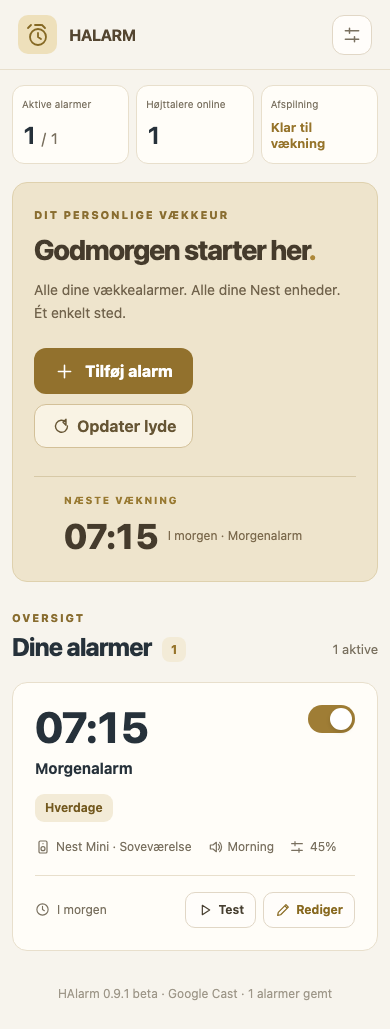
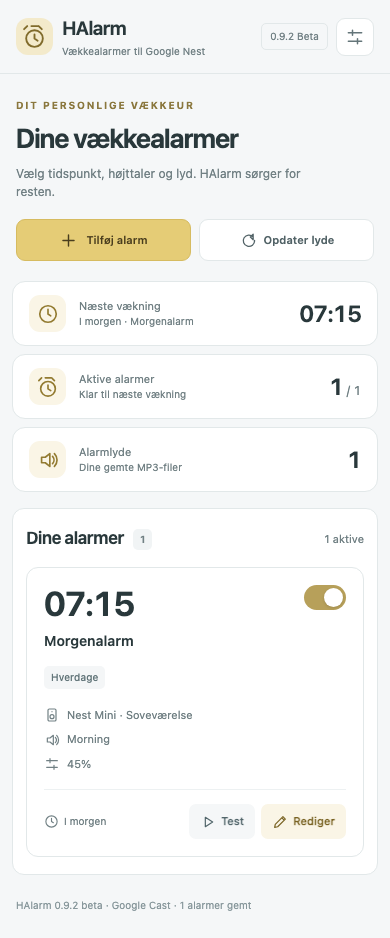
Restyle HAlarm with a light ESPScripts-inspired interface

diff --git a/custom_components/halarm/frontend/halarm.js b/custom_components/halarm/frontend/halarm.js
@@ -1,4 +1,4 @@
-/* HAlarm 0.9.1 beta — standalone Home Assistant sidebar panel, no npm dependencies. */
+/* HAlarm 0.9.2 beta — standalone Home Assistant sidebar panel, no npm dependencies. */
 const DAY_LABELS = ["Man", "Tir", "Ons", "Tor", "Fre", "Lør", "Søn"];
 const DAY_FULL = ["mandag", "tirsdag", "onsdag", "torsdag", "fredag", "lørdag", "søndag"];
 const ESC = (x) => String(x ?? "").replace(/[&<>"']/g, c => ({"&":"&amp;","<":"&lt;",">":"&gt;","\"":"&quot;","'":"&#39;"})[c]);
@@ -170,33 +170,29 @@ class AlarmPanel extends HTMLElement {
     const empty = alarms.length === 0;
     this.shadowRoot.innerHTML = `<style>${STYLE}</style>
     <div class="page">
-      <header class="topbar"><div class="brand"><div class="brand-icon">${ico("alarm", 24)}</div><span>HALARM</span></div>
-      <button class="icon-button" data-action="settings" aria-label="Indstillinger" title="Indstillinger">${ico("tune")}</button></header>
+      <header class="topbar"><div class="brand"><div class="brand-icon">${ico("alarm", 25)}</div><div><strong>HAlarm</strong><small>Vækkealarmer til Google Nest</small></div></div>
+      <div class="header-right"><span class="local-status ${active ? "is-ringing" : ""}">${active ? "Alarmen ringer" : "Kører lokalt"}</span><span class="version">0.9.2 Beta</span><button class="icon-button" data-action="settings" aria-label="Indstillinger" title="Indstillinger">${ico("tune")}</button></div></header>
       <main class="main">
-        <section class="overview" aria-label="Alarmoversigt">
-          <div><span>Aktive alarmer</span><strong>${on}<small> / ${alarms.length}</small></strong></div>
-          <div><span>Højttalere online</span><strong>${s?.devices?.filter(d=>d.available).length || 0}</strong></div>
-          <div><span>Afspilning</span><strong class="status-value">${active ? `${active} ringer nu` : "Klar til vækning"}</strong></div>
-        </section>
         <section class="hero">
           <div class="hero-copy"><p class="eyebrow">DIT PERSONLIGE VÆKKEUR</p>
-          <h1>Godmorgen starter her<span class="period">.</span></h1>
-          <p class="hero-description">Alle dine vækkealarmer. Alle dine Nest enheder. Ét enkelt sted.</p>
-          <div class="hero-actions"><button class="primary" data-action="add">${ico("add", 21)} Tilføj alarm</button>
-          <button class="subtle" data-action="refresh">${ico("refresh", 18)} Opdater lyde</button></div></div>
-          <div class="hero-widget"><div class="widget-orbit"></div><div class="widget-glyph">${ico("alarm", 53)}</div>
-          <p class="widget-label">NÆSTE VÆKNING</p><div class="widget-time">${next ? ESC(next.time) : "--:--"}</div>
-          <div class="widget-caption">${next ? ESC(this._next(next).text) + " · " + ESC(next.name) : "Ingen aktive alarmer"}</div></div>
+          <h1>Dine vækkealarmer</h1>
+          <p class="hero-description">Vælg tidspunkt, højttaler og lyd. HAlarm sørger for resten.</p></div>
+          <div class="hero-actions"><button class="primary" data-action="add">${ico("add", 19)} Tilføj alarm</button><button class="secondary" data-action="refresh">${ico("refresh", 17)} Opdater lyde</button></div>
+        </section>
+        <section class="overview" aria-label="Alarmoversigt">
+          <div><span class="stat-icon">${ico("clock",22)}</span><div><span>Næste vækning</span><strong>${next ? ESC(next.time) : "—"}</strong><small>${next ? ESC(this._next(next).text) + " · " + ESC(next.name) : "Ingen aktive alarmer"}</small></div></div>
+          <div><span class="stat-icon">${ico("alarm",22)}</span><div><span>Aktive alarmer</span><strong>${on}<small> / ${alarms.length}</small></strong><small>${active ? `${active} ringer nu` : "Klar til næste vækning"}</small></div></div>
+          <div><span class="stat-icon">${ico("sound",22)}</span><div><span>Alarmlyde</span><strong>${s?.sounds?.length || 0}</strong><small>Dine gemte MP3-filer</small></div></div>
         </section>
         ${active ? `<section class="live-strip"><span class="live-dot"></span><div><b>${active} alarm${active > 1 ? "er" : ""} ringer</b><small>Sig “Hey Google, stop” eller brug Stop</small></div><button class="stop-all" data-action="stop-all">${ico("stop", 18)} Stop alle</button></section>` : ""}
         ${!s?.base_url ? `<section class="notice">${ico("info", 19)} <span>Home Assistants mediebibliotek bruges til alarmlyde. Angiv gerne en lokal IP adresse under Indstillinger som reservevej til Nest Hub.</span><button data-action="settings">Indstil</button></section>` : ""}
         ${s && !s.sounds.length ? `<section class="notice">${ico("info", 19)} <span>Ingen lydfiler endnu. Læg <code>*.mp3</code> i <code>halarm/sounds/</code>.</span><button data-action="refresh">Søg igen</button></section>` : ""}
-        <section class="list-section"><div class="section-heading"><div><p class="eyebrow dark">OVERSIGT</p><h2>Dine alarmer <span class="count">${alarms.length}</span></h2></div><span class="section-caption">${on} aktive</span></div>
+        <section class="list-section"><div class="section-heading"><div><h2>Dine alarmer <span class="count">${alarms.length}</span></h2></div><span class="section-caption">${on} aktive</span></div>
         ${this._error ? `<div class="notice error">${ico("info")} ${ESC(this._error)}</div>` : ""}
         ${s?.last_error ? `<div class="notice error">${ico("info")} <span>Seneste afspilningsfejl: ${ESC(s.last_error)}</span></div>` : ""}
         ${!s ? `<div class="empty">Indlæser alarmcentralen…</div>` : empty ? `<div class="empty-state"><div class="empty-icon">${ico("moon", 35)}</div><h3>Ingen alarmer endnu</h3><p>Begynd med din første alarm. Vælg klokken, ugedage, lyd og højttaler.</p><button class="primary" data-action="add">${ico("add")} Opret din første alarm</button></div>` : `<div class="alarm-grid">${alarms.sort((a,b) => Number(b.enabled)-Number(a.enabled) || a.time.localeCompare(b.time)).map(a=>this._alarmCard(a)).join("")}</div>`}
         </section>
-        <footer class="footer">HAlarm 0.9.1 beta · Google Cast · ${alarms.length} alarmer gemt</footer>
+        <footer class="footer">HAlarm 0.9.2 beta · Google Cast · ${alarms.length} alarmer gemt</footer>
       </main>
     </div>
     <div class="modal-layer" id="modal-layer"></div><div class="toast ${this._toastText ? `show ${this._toastIsError ? "bad" : ""}` : ""}" role="status" aria-live="polite">${ESC(this._toastText)}</div>`;
@@ -328,63 +324,18 @@ class AlarmPanel extends HTMLElement {
 }
 
 const STYLE = `
-:host{display:block;min-height:100%;font-family:Inter,system-ui,-apple-system,BlinkMacSystemFont,"Segoe UI",sans-serif;color:var(--primary-text-color,#26313a);--ink:var(--primary-text-color,#403a2e);--muted:var(--secondary-text-color,#766e60);--line:rgba(142,121,80,.20);--bg:var(--primary-background-color,#f7f4ed);--panel:var(--card-background-color,#fffdf8);--blue:#98782e;--blue-dark:#795e22;--soft:#f3eddb;}
-*{box-sizing:border-box} button,input,select{font:inherit} button{cursor:pointer} button:disabled{opacity:.5;cursor:wait} svg{flex:none}.page{background:var(--bg);min-height:100vh}.topbar{height:77px;padding:0 clamp(20px,5vw,76px);background:var(--panel);border-bottom:1px solid var(--line);display:flex;align-items:center;justify-content:space-between}.brand{display:flex;align-items:center;gap:12px;font-size:12px;font-weight:850;letter-spacing:.18em}.brand-icon{width:39px;height:39px;border-radius:12px;background:#eaeefe;color:var(--blue);display:grid;place-items:center}.icon-button{width:40px;height:40px;display:grid;place-items:center;border:1px solid var(--line);border-radius:12px;background:var(--panel);color:var(--muted);transition:.2s}.icon-button:hover{color:var(--blue);border-color:var(--blue)}.main{max-width:1240px;margin:auto;padding:32px clamp(18px,4vw,42px) 50px}.hero{background:linear-gradient(118deg,#1f2b59 0%,#3245a0 58%,#586ae2 100%);color:white;border-radius:27px;min-height:288px;display:flex;position:relative;overflow:hidden;justify-content:space-between;gap:24px;align-items:center;padding:46px clamp(30px,5vw,66px);box-shadow:0 22px 55px #23377921}.hero::after{content:"";width:420px;height:420px;position:absolute;right:-180px;top:-220px;border:1px solid #ffffff2b;border-radius:50%}.eyebrow{font-size:11px;letter-spacing:.16em;font-weight:800;margin:0 0 13px;color:#bacaff}.eyebrow.dark{color:var(--blue);margin-bottom:8px}.hero-copy{position:relative;z-index:1}.hero h1{font-size:clamp(29px,3.6vw,45px);letter-spacing:-.045em;line-height:1.12;margin:0;font-weight:760;max-width:520px}.period{color:#97b5ff}.hero-description{color:#dae2ff;margin:18px 0 25px;line-height:1.6;max-width:420px;font-size:14px}.hero-actions{display:flex;gap:10px;flex-wrap:wrap}.primary{display:inline-flex;gap:10px;align-items:center;justify-content:center;border:0;color:#fff;background:var(--blue);font-weight:750;border-radius:12px;padding:12px 20px;transition:.15s;white-space:nowrap;min-height:46px}.primary:hover{background:var(--blue-dark);transform:translateY(-1px)}.hero .primary{background:white;color:#3044a2}.hero .primary:hover{background:#e9efff}.subtle{background:#ffffff1a;color:#fff;border:1px solid #ffffff45;display:inline-flex;align-items:center;gap:8px;border-radius:12px;padding:12px 16px;font-weight:650}.subtle:hover{background:#ffffff33}.hero-widget{z-index:1;position:relative;text-align:center;min-width:215px;max-width:240px;padding:17px 4px}.widget-orbit{width:198px;height:198px;position:absolute;border:1px solid #ffffff30;border-radius:50%;inset:-12px 10px auto;pointer-events:none}.widget-glyph{color:#c1ceff;margin-bottom:7px}.widget-label{font-size:10px;letter-spacing:.17em;color:#c1ceff;font-weight:800;margin:4px 0 4px}.widget-time{font-size:48px;font-weight:800;letter-spacing:-.06em;line-height:1.1}.widget-caption{font-size:12px;color:#e1e7ff;margin-top:11px;line-height:1.5}.list-section{padding-top:41px}.section-heading{display:flex;align-items:end;justify-content:space-between;margin-bottom:21px}.section-heading h2{font-size:25px;letter-spacing:-.035em;margin:0;font-weight:760}.section-caption{color:var(--muted);font-size:13px;padding-bottom:4px}.count{font-size:12px;background:var(--soft);color:var(--blue);padding:5px 9px;border-radius:10px;vertical-align:middle;letter-spacing:0;margin-left:6px}.alarm-grid{display:grid;grid-template-columns:repeat(2,minmax(0,1fr));gap:17px}.alarm-card{background:var(--panel);border:1px solid var(--line);border-radius:22px;padding:25px;min-width:0;box-shadow:0 5px 16px #31435b08;transition:transform .15s,border .15s}.alarm-card:hover{transform:translateY(-2px);border-color:#bfc6ef}.alarm-card.disabled{opacity:.62}.alarm-card.ringing{border-color:#f4a15c;box-shadow:0 0 0 3px #ffba722e}.alarm-card-main{display:flex;justify-content:space-between;gap:15px;align-items:start}.alarm-time{font-size:48px;letter-spacing:-.065em;font-weight:760;line-height:1}.alarm-name{font-size:15px;font-weight:700;margin-top:11px}.alarm-days{font-size:12px;font-weight:650;color:var(--blue);margin-top:17px;background:var(--soft);border-radius:9px;padding:6px 10px;display:inline-block;min-height:28px}.alarm-meta{display:flex;flex-wrap:wrap;gap:8px 15px;margin-top:24px;color:var(--muted);font-size:12px;border-bottom:1px solid var(--line);padding-bottom:20px}.alarm-meta span{display:inline-flex;align-items:center;gap:5px;overflow-wrap:anywhere}.alarm-card-footer{display:flex;align-items:center;justify-content:space-between;margin-top:16px;gap:8px}.next-chip{display:flex;align-items:center;gap:7px;color:var(--muted);font-size:12px}.next-chip.live{color:#e8802c;font-weight:800}.card-actions{display:flex;gap:7px}.mini{display:flex;gap:5px;align-items:center;justify-content:center;border:1px solid var(--line);background:transparent;color:var(--ink);padding:9px 11px;border-radius:10px;font-size:12px;font-weight:700}.mini:hover{background:var(--soft);border-color:#c9ceef}.mini.edit{color:var(--blue)}.mini.danger{background:#fff0eb;color:#b6482a;border-color:#ffc8b3}.switch{position:relative;display:inline-flex;align-items:center;flex:none;cursor:pointer}.switch input{position:absolute;opacity:0;width:1px;height:1px}.switch span{display:inline-block;width:47px;height:28px;border-radius:28px;background:#c6cdd6;position:relative;transition:.2s}.switch span:after{content:"";background:#fff;width:22px;height:22px;border-radius:100%;position:absolute;top:3px;left:3px;box-shadow:0 2px 4px #0002;transition:.2s}.switch input:checked+span{background:var(--blue)}.switch input:checked+span:after{transform:translateX(19px)}.switch input:focus-visible+span{outline:3px solid #9caeff}.live-strip{background:#fff5ed;border:1px solid #f9d5b9;color:#a25427;border-radius:15px;display:flex;align-items:center;gap:14px;padding:14px 18px;margin-top:19px}.live-dot{width:13px;height:13px;background:#ed7a2e;border-radius:50%;box-shadow:0 0 0 6px #ffd6b7;animation:pulse 1.2s infinite}.live-strip div{flex:1;display:grid;gap:2px}.live-strip small{font-size:12px}.stop-all{border:0;border-radius:9px;background:#ad4a26;color:white;padding:10px 13px;display:flex;align-items:center;gap:8px;font-weight:700}.notice{margin-top:18px;display:flex;align-items:center;gap:12px;border:1px solid #dde2f7;border-radius:14px;padding:13px 16px;background:var(--panel);font-size:13px;color:var(--muted)}.notice span{flex:1}.notice button{color:var(--blue);border:0;background:transparent;font-weight:700}.notice.error{color:#b32742;border-color:#f8baca}.empty-state{display:flex;flex-direction:column;align-items:center;text-align:center;padding:57px 20px;background:var(--panel);border:1px dashed #bbc7dc;border-radius:19px}.empty-icon{display:grid;place-items:center;border-radius:20px;width:72px;height:72px;color:var(--blue);background:var(--soft)}.empty-state h3{font-size:22px;margin:20px 0 2px}.empty-state p{color:var(--muted);max-width:330px;font-size:14px;line-height:1.6;margin-bottom:22px}.empty{background:var(--panel);border-radius:16px;padding:38px;text-align:center;color:var(--muted)}.footer{text-align:center;color:var(--muted);font-size:12px;margin-top:35px;opacity:.7}.overlay{position:fixed;z-index:1000;inset:0;background:#1721399e;display:flex;align-items:center;justify-content:center;padding:24px;backdrop-filter:blur(5px)}.dialog{background:var(--panel);border-radius:22px;width:min(100%,635px);max-height:min(93vh,950px);display:flex;flex-direction:column;color:var(--ink);box-shadow:0 30px 100px #0003;overflow:hidden}.dialog-top{display:flex;align-items:center;justify-content:space-between;padding:25px 29px;border-bottom:1px solid var(--line)}.dialog-top h2{font-size:24px;letter-spacing:-.035em;margin:0}.dialog-scroll{padding:26px 30px 23px;overflow-y:auto;overscroll-behavior:contain}.field-label{display:block;font-size:13px;font-weight:760;margin-bottom:10px;color:var(--ink)}.field{background:var(--panel);border:1px solid #cbd3de;color:var(--ink);border-radius:11px;padding:12px 13px;width:100%;min-height:46px;outline:0}.field:focus,.time-input:focus{border-color:var(--blue);box-shadow:0 0 0 3px #526ee823}.time-input{font-size:43px;letter-spacing:-.035em;font-weight:750;max-width:255px;width:100%;border:1px solid #cbd3de;border-radius:13px;background:var(--panel);color:var(--ink);padding:9px 14px;outline:0;min-height:73px;color-scheme:light}.form-gap{margin-top:22px}.quick-days{display:flex;flex-wrap:wrap;gap:8px;margin-bottom:12px}.quick-days button{font-size:12px;font-weight:720;color:var(--blue);background:var(--soft);border:1px solid #dfe3fb;padding:8px 12px;border-radius:9px}.quick-days button:hover{background:#dce4ff}.day-picker{display:flex;gap:8px;flex-wrap:wrap}.day-chip{width:49px;height:46px;border:1px solid #d5dbe3;border-radius:11px;background:var(--panel);color:var(--muted);font-size:12px;font-weight:760}.day-chip.selected{background:var(--blue);border-color:var(--blue);color:#fff;box-shadow:0 3px 10px #526ee828}.dialog-grid{display:grid;grid-template-columns:1fr 1fr;gap:16px}.select-wrap{position:relative}.select-wrap svg{position:absolute;left:12px;top:15px;color:var(--blue);pointer-events:none}.select-wrap select{padding-left:37px;max-width:100%;text-overflow:ellipsis;appearance:auto}.volume-panel{padding:19px 19px 16px;background:var(--soft);border-radius:16px}.volume-head{display:flex;align-items:center;justify-content:space-between;gap:8px}.volume-head .field-label{margin:0}.volume-head strong{color:var(--blue);font-size:18px}.volume-panel input[type=range]{width:100%;margin:22px 0 16px;appearance:none;height:7px;border-radius:10px;background:linear-gradient(to right,var(--blue) var(--fill),#d0d7e8 var(--fill));cursor:pointer}.volume-panel input[type=range]::-webkit-slider-thumb{appearance:none;border-radius:50%;width:20px;height:20px;background:#fff;border:5px solid var(--blue);box-shadow:0 2px 7px #0002}.volume-foot{display:flex;align-items:center;justify-content:space-between;font-size:11px;color:var(--muted)}.preview-link{border:0;background:transparent;color:var(--blue);display:flex;align-items:center;gap:5px;font-weight:750;font-size:12px}.enabled-inline{display:flex;align-items:center;justify-content:space-between;padding:17px 0 2px}.enabled-inline div{display:flex;flex-direction:column;gap:4px}.enabled-inline b{font-size:13px}.enabled-inline small{font-size:12px;color:var(--muted)}.dialog-actions{display:flex;align-items:center;justify-content:space-between;gap:10px;border-top:1px solid var(--line);padding:17px 29px;background:var(--panel)}.action-right{display:flex;align-items:center;gap:9px}.secondary{border:1px solid var(--line);background:var(--panel);border-radius:11px;padding:12px 16px;color:var(--ink);font-weight:700}.delete-button{border:0;color:#d14b53;background:transparent;display:flex;align-items:center;gap:6px;font-size:13px;font-weight:760}.toast{position:fixed;z-index:2000;left:50%;bottom:30px;max-width:min(90vw,580px);background:#263f43;color:#fff;padding:13px 19px;border-radius:12px;box-shadow:0 15px 40px #0004;transform:translate(-50%,100px);opacity:0;pointer-events:none;transition:.24s;text-align:center;font-size:13px}.toast.show{transform:translate(-50%,0);opacity:1}.toast.bad{background:#bb4050}.help{line-height:1.6;color:var(--muted);font-size:12px;margin:8px 0 19px}.settings-box{background:var(--soft);border-radius:15px;padding:18px;font-size:13px}.settings-box code{display:block;overflow-wrap:anywhere;margin-top:13px;padding:10px;background:var(--panel);border-radius:8px;color:var(--blue)}.settings-box p{line-height:1.6;color:var(--muted)}
-@keyframes pulse{50%{box-shadow:0 0 0 10px #ffd6b700}}
-@media(max-width:840px){.hero{padding:34px 29px}.hero-widget{min-width:160px}.widget-time{font-size:40px}.alarm-grid{grid-template-columns:1fr}}@media(max-width:590px){.topbar{height:64px;padding:0 20px}.main{padding:19px 14px 30px}.hero{display:block;padding:29px 24px}.hero h1{font-size:31px}.hero-widget{margin:28px auto 0;padding:0;max-width:100%;display:flex;align-items:center;gap:11px;flex-wrap:wrap;text-align:left}.widget-orbit,.widget-glyph{display:none}.widget-label{width:100%;margin:0}.widget-time{font-size:35px}.widget-caption{margin:0}.list-section{padding-top:29px}.alarm-card{padding:20px}.alarm-time{font-size:43px}.alarm-meta{margin-top:17px}.alarm-card-footer{flex-wrap:wrap}.overlay{padding:0;align-items:end}.dialog{max-height:95dvh;border-radius:22px 22px 0 0;width:100%}.dialog-top{padding:20px}.dialog-scroll{padding:20px}.dialog-grid{grid-template-columns:1fr}.dialog-actions{padding:15px 20px}.day-picker{gap:5px}.day-chip{width:calc((100% - 6*5px)/7);min-width:0}.live-strip{flex-wrap:wrap}.stop-all{margin-left:auto}}
-@media(prefers-reduced-motion:reduce){*{animation:none!important;transition:none!important}}
-
-
-/* HAlarm warm muted-yellow design: follows ESPHealth's clear, calm dashboard language. */
-:host{--ink:#473f30;--muted:#79705f;--line:#e8dfcc;--bg:#f7f4ed;--panel:#fffdf8;--blue:#96742b;--blue-dark:#795b1c;--soft:#f3ebd7;}
-.page{background:var(--bg)}
-.topbar{height:70px;max-width:1540px;margin:auto;background:transparent;border-bottom:1px solid var(--line);padding:0 32px}
-.brand{font-size:16px;letter-spacing:-.03em;font-weight:700;color:#544631}
-.brand-icon{background:#eee0bb;color:#856823;border-radius:10px}
-.main{max-width:1340px;padding:24px 32px 45px}
-.hero{background:#eee4cc;border:1px solid #dfd1ae;box-shadow:none;min-height:246px;border-radius:17px;color:#453b2c;padding:32px 43px}
-.hero::after{border-color:#cdbb8a66}
-.hero h1{font-size:clamp(28px,3vw,40px)}
-.hero .eyebrow,.eyebrow.dark{color:#896d30}
-.hero-description{color:#71634c;margin:14px 0 24px}
-.period{color:#ad8839}
-.hero .primary{background:#92712d;color:#fff}
-.hero .primary:hover{background:#775a24}
-.hero .subtle{background:#f9f3e4;color:#665534;border-color:#d3c098}
-.hero .subtle:hover{background:#fff9e9}
-.widget-label,.widget-glyph{color:#987931}
-.widget-caption{color:#7b694c}
-.widget-orbit{border-color:#cfbd9566}
-.alarm-card{border-radius:15px;box-shadow:none;padding:22px}
-.alarm-card:hover{border-color:#c9b57e;transform:translateY(-1px)}
-.alarm-card.ringing{border-color:#caa45a;box-shadow:0 0 0 3px #e9ce8a55}
-.alarm-days{color:#73591f}
-.count{border-radius:8px}
-.mini,.icon-button,.secondary{background:#fffdfa;border-color:#e1d7c6}
-.mini.edit{color:#88691f}
-.mini:hover,.icon-button:hover{background:#f6edda;border-color:#c9b57e}
-.switch input:checked+span{background:#9f7d35}
-.switch input:focus-visible+span{outline:3px solid #e0c37d}
-.volume-panel{background:#f6f0e1;border:1px solid #eadbbd}
-.day-chip.selected{background:#92712d;border-color:#92712d;box-shadow:none}
-.quick-days button{border-color:#e1d4b8;color:#7b6127;background:#f6eeda}
-.quick-days button:hover{background:#ecdfbd}
-.dialog{border-radius:18px}
-.field,.time-input{border-color:#d8cdba}
-.field:focus,.time-input:focus{border-color:#a18a50;box-shadow:0 0 0 3px #dccb9d55}
-.volume-panel input[type=range]{background:linear-gradient(to right,#9e7f3c var(--fill),#ddd2b8 var(--fill))}
-.volume-panel input[type=range]::-webkit-slider-thumb{border-color:#9e7f3c}
-.notice{background:#fffdf8;border-color:#e9dfcc}
-.empty-state{border-color:#d9cda9}
-.toast{background:#4b4536}
-.settings-box{margin-top:14px;background:#f5efdf}
-.diag-log{white-space:pre-wrap;max-height:190px;overflow:auto;overflow-wrap:anywhere;font:11px/1.5 ui-monospace,monospace;color:#62563d;background:#fffbf2;border:1px solid #e7ddc4;padding:10px;border-radius:8px}
-button:focus-visible,input:focus-visible,select:focus-visible{outline:3px solid #b99a50;outline-offset:3px}
-.overview{display:grid;grid-template-columns:repeat(3,minmax(0,1fr));gap:14px;margin-bottom:18px}
-.overview>div{background:var(--panel);border:1px solid var(--line);border-radius:12px;padding:17px 20px;display:grid;gap:9px}
-.overview span{font-size:12px;color:var(--muted)}.overview strong{font-size:27px;font-variant-numeric:tabular-nums;font-weight:650}.overview small{font-size:15px;color:var(--muted);font-weight:400}.overview .status-value{font-size:18px;align-self:center;color:var(--blue)}
-.widget-orbit,.hero::after{display:none}.hero-widget{border-left:1px solid #d7c9a7;padding-left:30px}.alarm-time,.widget-time{font-variant-numeric:tabular-nums}
-@media(prefers-color-scheme:dark){:host{--ink:#ede6d7;--muted:#bdb39f;--line:#484231;--bg:#211f19;--panel:#2b2820;--soft:#393222;--blue:#d5b765;--blue-dark:#b69a4d;color:var(--ink)}.hero{background:#383121;color:#f1e6cb;border-color:#605237}.hero-description,.widget-caption{color:#d3c5a5}.hero .eyebrow,.widget-label,.widget-glyph,.brand,.alarm-days,.mini.edit{color:#d5b765}.mini,.icon-button,.secondary,.notice{background:var(--panel);color:var(--ink);border-color:var(--line)}.settings-box,.volume-panel{background:var(--soft)}.diag-log{background:var(--panel);color:var(--ink);border-color:var(--line)}.primary,.hero .primary,.day-chip.selected{color:#241f14;background:#d5b765}.mini:hover,.icon-button:hover,.secondary:hover{background:var(--soft);color:#e8cb83;border-color:#b59a54}.eyebrow.dark{color:#d5b765}.hero .primary:hover{background:#e8cb83}.time-input{color-scheme:dark}}
-@media(max-width:590px){.overview{gap:7px}.overview>div{padding:12px 9px}.overview span{font-size:10px}.overview strong{font-size:24px}.overview .status-value{font-size:13px}.hero-widget{border-left:0;border-top:1px solid #d7c9a7;padding-top:17px}.topbar{padding:0 18px}.main{padding:15px 12px 28px}.hero{padding:25px 21px;border-radius:15px}}
+:host{display:block;min-height:100%;font:14px/1.5 system-ui,-apple-system,BlinkMacSystemFont,"Segoe UI",sans-serif;color:#29383b;color-scheme:light;--ink:#29383b;--muted:#718084;--line:#e2e8e9;--bg:#f5f7f8;--panel:#fff;--blue:#766020;--blue-dark:#624e17;--soft:#faf5e4;--accent:#e5cc76}
+*{box-sizing:border-box}button,input,select{font:inherit}button{cursor:pointer}button:disabled{opacity:.5;cursor:wait}svg{flex:none}button,input,select{touch-action:manipulation}button:focus-visible,input:focus-visible,select:focus-visible{outline:3px solid #c3a64c;outline-offset:3px}
+.page{background:var(--bg);min-height:100vh}.topbar{height:84px;max-width:1376px;margin:auto;padding:0 42px;display:flex;align-items:center;justify-content:space-between;gap:16px;border-bottom:1px solid var(--line)}.brand{display:flex;align-items:center;gap:12px}.brand-icon{width:43px;height:43px;border-radius:12px;background:#f3eacb;color:#806b2b;display:grid;place-items:center}.brand strong{display:block;font-size:21px;font-weight:650;letter-spacing:-.6px}.brand small{display:block;font-size:11px;color:var(--muted);margin-top:2px}.header-right{display:flex;align-items:center;gap:16px}.version{font-size:11px;border:1px solid var(--line);padding:5px 8px;border-radius:5px;color:var(--muted);white-space:nowrap}.local-status{font-size:11px;color:var(--muted);white-space:nowrap}.local-status:before{content:"";display:inline-block;width:7px;height:7px;border-radius:50%;background:#6e9d87;margin-right:7px}.local-status.is-ringing:before{background:#bf8133}.icon-button{width:38px;height:38px;display:grid;place-items:center;background:white;border:1px solid var(--line);color:#647579;border-radius:9px}
+.main{max-width:1376px;margin:auto;padding:0 42px 28px}.hero{display:flex;align-items:center;justify-content:space-between;gap:25px;padding:32px 0 27px}.eyebrow{font-size:10px;font-weight:700;letter-spacing:1.7px;color:#8a773d;margin:0 0 10px}h1{font-size:clamp(25px,3vw,34px);letter-spacing:-1px;font-weight:650;line-height:1.15;margin:0}.hero-description{font-size:13px;color:var(--muted);margin:11px 0 0}.hero-actions{display:flex;gap:8px;flex-wrap:wrap}.primary,.secondary,.subtle{display:inline-flex;align-items:center;justify-content:center;gap:8px;min-height:42px;padding:10px 15px;border-radius:9px;font-size:12px;font-weight:600;white-space:nowrap}.primary{background:var(--accent);border:1px solid #d6bb60;color:#493d1d}.primary:hover{background:#ddc064}.secondary,.subtle{background:white;border:1px solid var(--line);color:#526367}.secondary:hover,.subtle:hover,.icon-button:hover{background:#f9fafb;border-color:#c7d2d4}
+.overview{display:grid;grid-template-columns:repeat(3,minmax(0,1fr));gap:16px;margin-bottom:24px}.overview>div{display:flex;align-items:center;gap:14px;min-width:0;padding:20px;background:white;border:1px solid var(--line);border-radius:13px}.stat-icon{display:grid;place-items:center;width:44px;height:44px;flex:none;border-radius:11px;background:#faf5e6;color:#927a30}.overview>div>div{min-width:0}.overview span:not(.stat-icon){display:block;font-size:11px;color:var(--muted)}.overview strong{display:block;font-size:25px;font-weight:650;letter-spacing:-.7px;line-height:1.3;font-variant-numeric:tabular-nums}.overview small{display:block;font-size:11px;font-weight:400;color:var(--muted);overflow-wrap:anywhere}.overview strong small{display:inline;font-size:14px;letter-spacing:0}
+.list-section{background:white;border:1px solid var(--line);border-radius:16px;padding:24px}.section-heading{display:flex;align-items:center;justify-content:space-between;gap:12px;margin-bottom:20px}.section-heading h2{font-size:17px;font-weight:650;letter-spacing:-.4px;margin:0}.section-caption{font-size:11px;color:var(--muted)}.count{font-size:10px;vertical-align:middle;display:inline-block;margin-left:6px;background:#f1f4f5;color:#718084;padding:3px 7px;border-radius:5px;letter-spacing:0}.alarm-grid{display:grid;grid-template-columns:repeat(auto-fill,minmax(290px,1fr));gap:16px}.alarm-card{background:white;border:1px solid var(--line);border-radius:12px;min-width:0;padding:20px;transition:border-color .15s}.alarm-card:hover{border-color:#c9d3d5}.alarm-card.disabled{background:#fafbfc}.alarm-card.disabled .alarm-time,.alarm-card.disabled .alarm-name{color:#829094}.alarm-card.ringing{border-color:#c6a84f;background:#fffdf6}.alarm-card-main{display:flex;align-items:flex-start;justify-content:space-between;gap:12px}.alarm-time{font-size:37px;font-weight:650;letter-spacing:-1.4px;line-height:1.1;font-variant-numeric:tabular-nums}.alarm-name{font-size:14px;font-weight:600;margin-top:8px;overflow-wrap:anywhere}.alarm-days{display:inline-block;font-size:10px;font-weight:500;background:#f4f6f7;color:#63767a;border-radius:5px;padding:4px 7px;margin-top:15px}.alarm-meta{display:grid;gap:8px;margin:18px 0 0;padding-bottom:17px;border-bottom:1px solid #edf1f2;font-size:11px;color:var(--muted)}.alarm-meta span{display:flex;align-items:center;gap:7px;overflow-wrap:anywhere}.alarm-card-footer{display:flex;justify-content:space-between;align-items:center;gap:8px;margin-top:14px;flex-wrap:wrap}.next-chip{display:flex;align-items:center;gap:5px;color:var(--muted);font-size:10px}.next-chip.live{color:#98752a;font-weight:650}.card-actions{display:flex;gap:6px}.mini{display:inline-flex;align-items:center;justify-content:center;gap:5px;background:#f5f7f8;border:1px solid transparent;color:#52666b;border-radius:7px;font-size:11px;font-weight:550;padding:8px 10px;min-height:34px}.mini:hover{background:#edf1f2}.mini.edit{background:#faf5e6;color:#796323}.mini.edit:hover{background:#f3e9c9}.mini.danger{background:#fceee9;color:#a14e36;border-color:#f1d9cc}
+.switch{position:relative;display:inline-flex;cursor:pointer;flex:none}.switch input{position:absolute;opacity:0;width:1px;height:1px}.switch span{display:block;width:42px;height:25px;border-radius:24px;background:#d8dfe1;position:relative}.switch span:after{content:"";position:absolute;left:3px;top:3px;width:19px;height:19px;background:white;border-radius:50%;box-shadow:0 1px 3px #0002;transition:transform .15s}.switch input:checked+span{background:#b7a05a}.switch input:checked+span:after{transform:translateX(17px)}.switch input:focus-visible+span{outline:3px solid #c3a64c;outline-offset:3px}
+.live-strip{display:flex;align-items:center;gap:14px;background:#fff8e8;border:1px solid #ead7a4;border-radius:11px;padding:14px 18px;margin:0 0 18px;color:#806323}.live-dot{height:9px;width:9px;background:#bc9137;border-radius:50%;flex:none}.live-strip>div{flex:1;display:grid;gap:2px}.live-strip small{font-size:11px}.stop-all{display:flex;gap:7px;align-items:center;background:#8a622b;color:white;border:0;border-radius:8px;padding:10px 13px;font-size:12px;font-weight:600}.notice{display:flex;align-items:center;gap:10px;border:1px solid var(--line);border-radius:10px;padding:12px 14px;margin-bottom:16px;background:white;color:var(--muted);font-size:12px}.notice span{flex:1;overflow-wrap:anywhere}.notice button{border:0;background:#faf5e6;border-radius:6px;color:#796323;padding:7px 10px;white-space:nowrap}.notice.error{color:#a44640;border-color:#efd0cd;background:#fff9f8}
+.empty-state{display:flex;flex-direction:column;align-items:center;text-align:center;border:1px dashed var(--line);border-radius:12px;padding:38px 20px;background:#fafcfc}.empty-icon{width:60px;height:60px;border-radius:15px;background:var(--soft);color:#927a30;display:grid;place-items:center}.empty-state h3{font-size:20px;font-weight:600;margin:16px 0 0}.empty-state p{font-size:12px;color:var(--muted);max-width:330px;margin:10px 0 19px}.empty{padding:35px;text-align:center;color:var(--muted)}.footer{font-size:10px;color:#87979b;margin-top:22px;text-align:left}
+.overlay{position:fixed;z-index:1000;inset:0;background:#20323766;display:flex;align-items:center;justify-content:center;padding:24px;backdrop-filter:blur(3px)}.dialog{background:white;border:1px solid var(--line);border-radius:16px;width:min(100%,635px);max-height:min(93dvh,950px);display:flex;flex-direction:column;color:var(--ink);box-shadow:0 25px 80px #20323726;overflow:hidden}.dialog-top{display:flex;align-items:center;justify-content:space-between;gap:12px;padding:23px 26px;border-bottom:1px solid var(--line)}.dialog-top h2{font-size:22px;font-weight:600;letter-spacing:-.7px;margin:0}.dialog-top .eyebrow{margin-bottom:5px}.dialog-scroll{padding:24px 26px;overflow-y:auto;overscroll-behavior:contain}.field-label{display:block;font-size:12px;font-weight:600;margin-bottom:8px;color:#52666b}.field,.time-input{display:block;width:100%;background:white;border:1px solid #d9e2e4;border-radius:8px;color:var(--ink);padding:11px 12px;min-height:44px;outline:none}.field:focus,.time-input:focus{border-color:#b49b4e}.time-input{font-size:35px;font-weight:600;letter-spacing:-1px;max-width:230px;min-height:63px;color-scheme:light}.form-gap{margin-top:20px}.quick-days{display:flex;gap:6px;flex-wrap:wrap;margin-bottom:12px}.quick-days button{font-size:11px;background:#f5f7f8;color:#63767a;border:1px solid var(--line);border-radius:7px;padding:8px 11px}.quick-days button:hover{background:#edf1f2}.day-picker{display:flex;gap:7px;flex-wrap:wrap}.day-chip{width:49px;min-height:42px;border:1px solid var(--line);border-radius:8px;background:white;color:var(--muted);font-size:11px}.day-chip.selected{background:#f4e9c4;border-color:#d5bd72;color:#69561e}.dialog-grid{display:grid;grid-template-columns:1fr 1fr;gap:16px}.select-wrap{position:relative}.select-wrap svg{position:absolute;left:11px;top:13px;color:#88989c;pointer-events:none}.select-wrap select{padding-left:36px;max-width:100%;text-overflow:ellipsis}.volume-panel{border:1px solid var(--line);background:#f9fafb;border-radius:10px;padding:16px}.volume-head{display:flex;align-items:center;justify-content:space-between;gap:8px}.volume-head .field-label{margin:0}.volume-head strong{color:#796323;font-size:16px}.volume-panel input[type=range]{width:100%;margin:20px 0 15px;appearance:none;height:6px;border-radius:8px;background:linear-gradient(to right,#b7a05a var(--fill),#e0e6e8 var(--fill));cursor:pointer}.volume-panel input[type=range]::-webkit-slider-thumb{appearance:none;border-radius:50%;width:19px;height:19px;background:white;border:4px solid #b7a05a}.volume-foot{display:flex;align-items:center;justify-content:space-between;font-size:10px;color:var(--muted)}.preview-link{border:0;background:transparent;color:#796323;display:flex;align-items:center;gap:5px;font-size:11px;font-weight:550}.enabled-inline{display:flex;align-items:center;justify-content:space-between;padding:16px 0 0;gap:12px}.enabled-inline div{display:grid;gap:3px}.enabled-inline b{font-size:12px;font-weight:600}.enabled-inline small{font-size:11px;color:var(--muted)}.dialog-actions{display:flex;align-items:center;justify-content:space-between;gap:10px;border-top:1px solid var(--line);padding:16px 26px;background:white}.action-right{display:flex;align-items:center;gap:8px}.delete-button{display:flex;align-items:center;gap:6px;border:0;background:transparent;color:#ad5851;font-size:12px;padding:8px 0}.help{font-size:12px;color:var(--muted);line-height:1.65;margin:9px 0 20px}.settings-box{margin-top:16px;background:#f8fafb;border:1px solid var(--line);border-radius:10px;padding:16px;font-size:12px}.settings-box code{display:block;padding:10px;background:white;border:1px solid var(--line);border-radius:6px;margin-top:10px;color:#63767a;overflow-wrap:anywhere}.settings-box p{color:var(--muted);line-height:1.65}.diag-log{white-space:pre-wrap;max-height:190px;overflow:auto;overflow-wrap:anywhere;font:11px/1.6 ui-monospace,monospace;color:#52666b;background:white;border:1px solid var(--line);padding:10px;border-radius:7px}.toast{position:fixed;z-index:2000;left:50%;bottom:25px;max-width:min(90vw,580px);background:#34474c;color:white;padding:12px 18px;border-radius:9px;box-shadow:0 8px 30px #20323726;transform:translate(-50%,100px);opacity:0;pointer-events:none;transition:.2s;text-align:center;font-size:12px}.toast.show{transform:translate(-50%,0);opacity:1}.toast.bad{background:#a64d48}
+@media(max-width:850px){.topbar{padding:0 24px}.main{padding:0 24px 24px}.hero{align-items:flex-start;flex-direction:column;gap:18px}.overview{gap:10px}.overview>div{padding:15px 12px;gap:9px}.stat-icon{width:35px;height:35px}.overview small{font-size:10px}}
+@media(max-width:590px){.topbar{height:74px;padding:0 16px}.brand{gap:9px}.brand strong{font-size:19px}.brand small{font-size:10px}.brand-icon{width:37px;height:37px}.header-right{gap:8px}.local-status{display:none}.version{font-size:10px}.main{padding:0 12px 24px}.hero{padding:24px 4px 20px}.hero h1{font-size:27px}.hero-description{font-size:12px;max-width:290px}.hero-actions{width:100%}.hero-actions button{flex:1;padding:10px;font-size:11px}.overview{grid-template-columns:1fr;gap:8px;margin-bottom:16px}.overview>div{padding:13px 16px;gap:13px}.overview>div>div{display:grid;grid-template-columns:1fr auto;column-gap:14px;align-items:center;flex:1}.overview strong{grid-column:2;grid-row:1/3;font-size:23px}.overview>div>div>small{grid-column:1;grid-row:2}.overview strong small{font-size:12px}.stat-icon{width:37px;height:37px}.list-section{padding:17px 13px;border-radius:12px}.section-heading{margin-bottom:15px}.alarm-grid{grid-template-columns:1fr;gap:12px}.alarm-card{padding:17px}.alarm-time{font-size:34px}.overlay{padding:0;align-items:flex-end}.dialog{max-height:95dvh;width:100%;border-radius:16px 16px 0 0}.dialog-top,.dialog-scroll{padding:20px}.dialog-actions{padding:14px 20px}.dialog-grid{grid-template-columns:1fr}.day-picker{gap:5px}.day-chip{width:calc((100% - 30px)/7);min-width:0}.live-strip{flex-wrap:wrap}.stop-all{margin-left:auto}.footer{padding:0 4px;line-height:1.7}}
+@media(prefers-reduced-motion:reduce){*{transition:none!important;animation:none!important}}
 `;
 if (!customElements.get("halarm-app")) customElements.define("halarm-app", AlarmPanel);

diff --git a/custom_components/halarm/__init__.py b/custom_components/halarm/__init__.py
@@ -669,8 +669,8 @@ async def async_setup(hass: HomeAssistant, config: ConfigType) -> bool:
         await panel_custom.async_register_panel(
             hass, webcomponent_name="halarm-app", frontend_url_path=DOMAIN,
             sidebar_title="HAlarm", sidebar_icon="mdi:alarm-multiple",
-            module_url="/halarm-ui/halarm.js?v=0.9.1",
+            module_url="/halarm-ui/halarm.js?v=0.9.2",
             require_admin=True,
         )
-    _LOGGER.info("HAlarm 0.9.1 beta klar")
+    _LOGGER.info("HAlarm 0.9.2 beta klar")
     return True

diff --git a/README.md b/README.md
@@ -2,7 +2,7 @@
 
 **HAlarm** er en lokal, selvstændig Home Assistant alarmcentral til Google Cast højttalere (Nest Hub, Nest Audio og Nest Mini) med et roligt, varmt gult interface, inspireret af det enkle ESPHealth-dashboard.
 
-> **Status: 0.9.1 beta.** Google Cast eksponerer ikke en dedikeret begivenhed for »Hey Google, stop«. HAlarm udleder et stop fra ændringer i `media_player` tilstanden. Stoplogikken er regressionstestet mod Home Assistant 2026.11.1; fysisk stemmestop på Nest-enheder skal fortsat afprøves i din installation.
+> **Status: 0.9.2 beta.** Google Cast eksponerer ikke en dedikeret begivenhed for »Hey Google, stop«. HAlarm udleder et stop fra ændringer i `media_player` tilstanden. Stoplogikken er regressionstestet mod Home Assistant 2026.11.1; fysisk stemmestop på Nest-enheder skal fortsat afprøves i din installation.
 
 ## Funktioner
 
@@ -12,7 +12,7 @@
 - Automatisk MP3 registrering i `halarm/sounds/`
 - Lydprøve, stopknap, »stop alle«, test og separat status på aktive alarmer
 - Gentagelse ved naturlig `idle`-afslutning; `off` og `paused` stopper altid, også tæt på lydens slutning
-- Kompakt statusoversigt, mobilvisning, mørk visning og dæmpet gul accent
+- Kompakt statusoversigt, mobilvisning, fast lys visning og dæmpet gul accent
 - Vedvarende lydmappe uden for integrationsmappen, så HACS-opdateringer bevarer MP3-filer
 - Log over de seneste tilstandsskift for at hjælpe med fejlsøgning på Nest Mini
 - Forsøger automatisk at importere alarmer fra Alarmcentral 2.x (`.storage/alarmpanel.v2`)

diff --git a/docs/validation.md b/docs/validation.md
@@ -1,4 +1,4 @@
-# Validering af HAlarm 0.9.1 beta
+# Validering af HAlarm 0.9.2 beta
 
 ## Miljø
 
@@ -13,7 +13,7 @@
 - Gem/genindlæs af eksisterende alarmindstillinger; læsende migration fra Alarmcentral.
 - Persistente MP3-filer og spejling til Cast/mediebibliotek.
 - Samme planlagte minut starter kun én gang ved samtidige scheduler-kald.
-- Desktop 1280 px, mobil 390 px, mørk visning, redigering/gem, Escape og genåbning uden dobbelte lyttere.
+- Desktop 1280 px, mobil 390 px, lys visning også med mørkt systemtema, redigering/gem, Escape og genåbning uden dobbelte lyttere.
 - Rigtig HA-opstart med afhængigheder, registrering af WebSocket og sidepanel.
 - HACS-validering i GitHub Actions; brands-check undtages, da dette er et brugerdefineret repository.
 - Ingen JavaScript-fejl eller vandret overløb ved testet mobilbredde.

diff --git a/CHANGELOG.md b/CHANGELOG.md
@@ -1,5 +1,12 @@
 # Ændringslog
 
+## 0.9.2 beta
+
+- Nyt lyst interface tættere på ESPScripts og ESPHealth: hvidlige flader, diskrete kanter og kompakte alarmkort.
+- Direkte adgang til Tilføj alarm og Opdater lyde samt oversigt over næste vækning, aktive alarmer og lydfiler.
+- Gul bruges som afdæmpet accent; systemets mørke udseende ændrer ikke længere HAlarm til mørk visning.
+- Alarmmotor, stemmestop, lagerformat og gemte alarmindstillinger er uændrede.
+
 ## 0.9.1 beta
 
 - Stemmestop efter bekræftet afspilning stopper straks ved pause/slukning, også under de første sekunder og ved lydens slutning.
